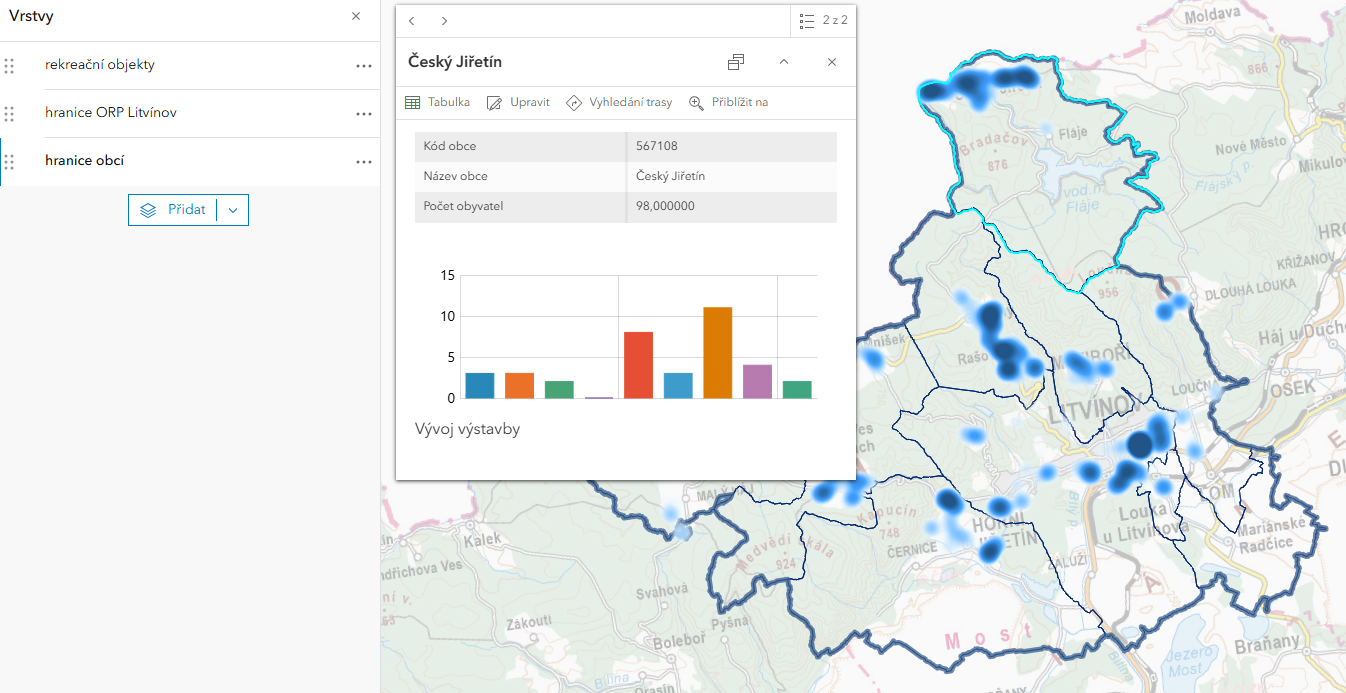
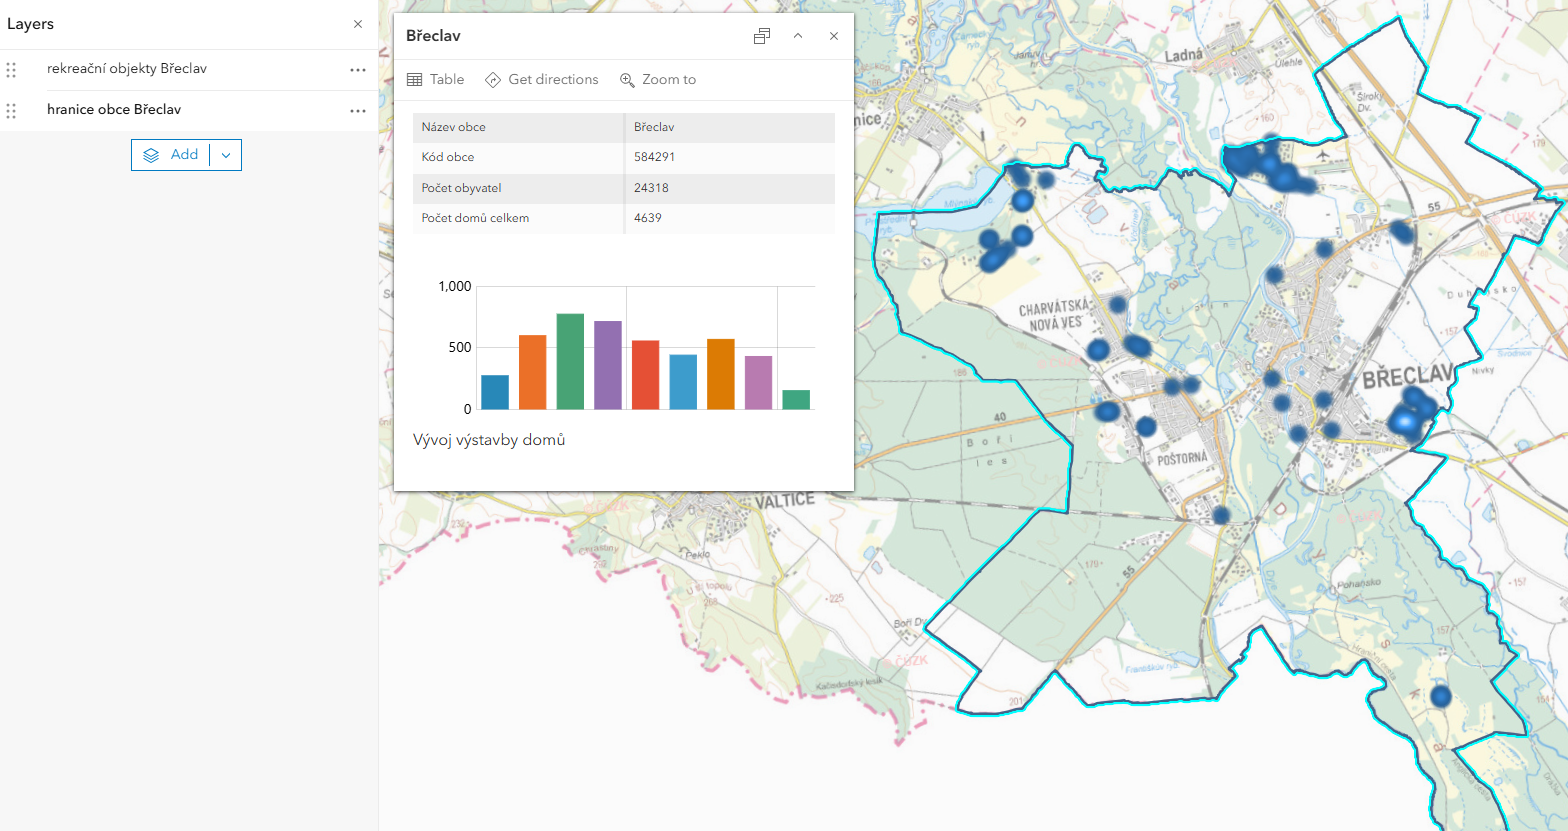
web maps edit

diff --git a/docs/cviceni/cviceni05.md b/docs/cviceni/cviceni05.md
@@ -49,9 +49,9 @@ ZABAGED představuje důležitý zdroj dat pro analýzu území, tvorbu map a 3D
 
 V prostředí [__ArcGIS Online__](https://www.arcgis.com/){.color_def .underlined_dotted .external_link_icon target="_blank"} vytvořte __2 webové mapy__ pro zadané území (viz individuální zadání níže): 
 
-[**Mapa I**](#mapa-i) bude obsahovat __budovy (stavební objekty) v zadané obci__ __barevně rozlišené dle připojení na kanalizaci a plyn__.
+[**Mapa I**](#mapa-i) bude zobrazovat __budovy (stavební objekty) v zadané obci__ __barevně rozlišené dle připojení na kanalizaci a plyn__.
 
-[**Mapa II**](#mapa-ii) bude zobrazovat __rekreační potenciál v zadané [ORP]("obce s rozšířenou působností (ORP) jsou v Česku mezičlánkem přenesené působnosti samosprávy mezi krajskými úřady a ostatními obecními úřady") pomocí metody intenzity jevu (heat map)__.
+[**Mapa II**](#mapa-ii) bude zobrazovat __rekreační potenciál v zadané obci pomocí metody intenzity jevu (heat map)__. Ve webové mapě bude nakonfigurováno vyskakovací okno s grafem, který bude zobrazovat vývoj výstavby domů v této obci.
 
 ??? task-fg-color "Individuální zadání"
     - také viz [Moodle](https://moodle-vyuka.cvut.cz/mod/page/view.php?id=363763){.color_def .underlined_dotted .external_link_icon target="_blank"}<br><br>
@@ -62,14 +62,14 @@ V prostředí [__ArcGIS Online__](https://www.arcgis.com/){.color_def .underline
 
 <div class="annotate" markdown>
 
-- Do prázdné mapy v ArcGIS Online __přidejte polygonovou vrstvu obcí__ [__:material-layers-triple: SGEA_obce_2025__]("Tato vrstva obsahuje polygony území všech obcí v ČR."){.bg .color_def}. __(1)__{title="ukázka polygonové vrstvy obcí"}
+- Do prázdné mapy v ArcGIS Online __přidejte polygonovou vrstvu obcí__ [__:material-layers-triple: SGEA_obce_2024__]("Tato vrstva obsahuje polygony území všech obcí v ČR."){.bg .color_def}. __(1)__{title="ukázka polygonové vrstvy obcí"}
 
 - S využitím funkce __:material-filter: filtru__ __omezte vrstvu obcí pouze na území zadané obce.__ Nastavte :material-filter: filtr dle atributu `Kód obce`. __(2)__{title="nastavení filtru dle kódu obce"}
 
 - Dále přidejte polygonovou vrstvu [__:material-layers-triple: StavebniObjekt__]("Tato vrstva obsahuje polygony všech stavebních objektů v ČR."){.bg .color_def} z mapové služby __:material-layers: RÚIAN__{.bg} z [__Geoportálu ČÚZK__](https://ags.cuzk.gov.cz/geoprohlizec/ "Produkty → RÚIAN"){.color_def .underlined_dotted .external_link_icon target="_blank"}. Vrstvě stavebních objektů vhodně nastavte viditelný rozsah, aby bylo možné stavební objekty zobrazit i v menším měřítku (postačí do úrovně měst). __(3)__{title="přidání vrstvy stavebních objektů"}__(13)__{title="nastavení viditelného rozsahu vrstvy"}
 
-- S využitím nástroje __prostorové analýzy__ [__:material-tools: Překrýt vrstvy__]("angl. Overlay Layers"){.bg .color_def} __vytvořte vrstvu stavebních objektů pouze na území zadané obce__.__(4)__{title="nastavení parametrů nástroje překrytí vrstev"}__(5)__{title="ukázka výstupu nástroje překrytí vrstev"}<br>
-    *(Před spuštěním nástroje nastavte mapové okno tak, aby byla __viditelná celá hranice zadané obce__. Následně nastavte parametr __"Nastavení prostředí"__ nastavte na __"Rozsah zobrazení"__ , čímž omezíte výpočet pouze na rozsah mapového okna a výrazně tak snížíte cenu výpočtu)* __(14)__{title="omezení výpočtu dle rozsahu mapového okna"}
+- S využitím nástroje __prostorové analýzy__ [__:material-tools: Overlay Layers__]("česky Překrýt vrstvy"){.bg .color_def} __vytvořte vrstvu stavebních objektů pouze na území zadané obce__.__(4)__{title="nastavení parametrů nástroje překrytí vrstev"}__(5)__{title="ukázka výstupu nástroje překrytí vrstev"}<br>
+    *(Před spuštěním nástroje nastavte mapové okno tak, aby byla __viditelná celá hranice zadané obce__. Následně nastavte parametr __"Environment settings"__ na __"Display extent"__ , čímž omezíte výpočet pouze na rozsah mapového okna a výrazně tak snížíte cenu výpočtu)* __(14)__{title="omezení výpočtu dle rozsahu mapového okna"}
 
 - Vhodným __nastavením :material-shape-outline: stylu__ nově vzniklé vrstvy __barevně odlište jednotlivé stavební objekty__ v zadané obci __dle atributu "Připojení na kanalizační síť"__:
     1. Číselné kódy nejprve seřaďte (vzestupně) a poté je přepište na slovní popisy dle následujícího klíče:    
@@ -109,7 +109,7 @@ __:material-gas-burner: Připojení na rozvod plynu__
 </div>
 
 - 
-    2. Jednotlivým kategoriím nastavte barevnou výplň dle následujícíh kartografických zásad:
+    2. Jednotlivým kategoriím nastavte barevnou výplň dle následujících kartografických zásad:
         - kategoriím typu `nedefinováno`, `nezjištěno`, `null`, `žádná hodnota` nastavte __šedou barvu__{style="color:grey;"}
         - ostatní __kategorie barevně rozlište dle stupně naplnění jevu__:
             - kategorii typu `Přípoj na kanalizační síť` odpovídajícím naplnění jevu nastavte __zelenou barvu__{style="color:green;"}
@@ -124,12 +124,12 @@ __:material-gas-burner: Připojení na rozvod plynu__
 <!-- NEFUNGUJE MI TA ZMENA PROJEKCE, U TETO VRSTVY TO TREBA FUNGUJE: geoappext.nrcan.gc.ca/arcgis/rest/services/BaseMaps/CBMT3978/MapServer -->
 
 - Proveďte finální úpravu webové mapy:
-    - vrstvy klasifikující stavební objekty dle připojení na plyn a kanalizaci seskupte do skupiny *"stavební objekty"* a této skupině __nastavte exkluzivní viditelnost__, aby byla při přepínání viditelná vždy pouze jedna vrstva stavebních objektů __(8)__{title="nastavení exkluzivní viditelnosti skupiny vrstev"}
-    - ve webové mapě __zachovejte pouze skupinu vrstev *"stavební objekty"* a vrstvu zobrazující hranice obce__ (ostatní vrstvy z mapy odstraňte)
+    - vrstvy klasifikující stavební objekty dle připojení na plyn a kanalizaci seskupte do skupiny **"stavební objekty"** a této skupině __nastavte exkluzivní viditelnost__, aby byla při přepínání viditelná vždy pouze jedna vrstva stavebních objektů __(8)__{title="nastavení exkluzivní viditelnosti skupiny vrstev"}
+    - ve webové mapě __zachovejte pouze skupinu vrstev "stavební objekty" a vrstvu zobrazující hranice obce__ (ostatní vrstvy z mapy odstraňte)
     - __všechny vrstvy vhodně pojmenujte__
     - u podkladové mapy nastavte vhodnou míru průhlednosti __(16)__{title="nastavení průhlednosti podkladové mapy"}
 
-- __Webovou mapu uložte__ s názvem **Prijmeni_Jmeno_SGEA2025_Mapa1** a __nastavte sdílení v rámci oganizace__. __(17)__{title="ukázka"}
+- __Webovou mapu uložte__ s názvem **Prijmeni_Jmeno_SGEA2026_Mapa1** a __nastavte sdílení v rámci oganizace__. __(17)__{title="ukázka"}
 
 <figure markdown>
 ![](../assets/cviceni04/Mapa1_result.png){width=700px}
@@ -153,8 +153,6 @@ __:material-gas-burner: Připojení na rozvod plynu__
 ---
 
 ## Mapa II
-Úkolem je vytvořit mapu, která bude zobrazovat __rekreační potenciál v zadané obci pomocí metody intenzity jevu (heat map)__. Ve webové mapě bude nakonfigurováno vyskakovací okno s grafem, který bude zobrazovat vývoj výstavby domů v této obci.
-
 
 <!--
 - ~~Obě vrstvy (stavební objekty i obvod zadané obce) __exportujte do formátu Shapefile__ a __stáhněte na disk počítače__.~~
@@ -179,9 +177,8 @@ __:material-gas-burner: Připojení na rozvod plynu__
 
 -->
 
-- Do prázdné mapy v ArcGIS Online __přidejte polygonovou vrstvu obcí__ [__:material-layers-triple: SGEA_obce_2025__]("Tato vrstva obsahuje polygony území všech obcí v ČR."){.bg .color_def}. __(1)__{title="ukázka polygonové vrstvy obcí"}
-
-- S využitím funkce __:material-filter: filtru__ __znovu omezte vrstvu obcí pouze na zadanou.__ Případně lze použít webovou mapu z minulého příkladu a přeuložit ji pod novým názvem a vrstvy upravit. __(19)__{title="nastavení filtru dle kódu obce"}
+- Předchozí mapu přeuložte pod novým názvem **Prijmeni_Jmeno_SGEA2026_Mapa2**. Ve webové mapě **ponechte pouze vrstvu "Hranice obce"**, skupinu vrstev "Stavební objekty" odstraňte.<br><br>
+    *(Případně si můžete založit novou prázdnou mapu, do které znovu přidáte __polygonovou vrstvu obcí__ [__:material-layers-triple: SGEA_obce_2024__]("Tato vrstva obsahuje polygony území všech obcí v ČR."){.bg .color_def}, kterou s využitím funkce __:material-filter: filtru__ __prostorově omezíte pouze na území zadané obce.__  )* __(19)__{title="nastavení filtru dle kódu obce"}
 
 <!--
 - S využitím nástroje __prostorové analýzy__ [__:material-tools: Sloučit hranice__]("angl. Dissolve Boundaries"){.bg .color_def} __sloučíme jednotlivé obce do plochy zadané ORP__.__(11)__{title="nastavení parametrů nástroje pro sloučení hranic"}<br>
@@ -191,10 +188,10 @@ __:material-gas-burner: Připojení na rozvod plynu__
 
 - Dále __přidejte bodovou vrstvu budov individuální a hromadné rekreace__ [__:material-layers-triple: Stav_objekty_rekr_BOD__]("tato vrstva obsahuje budovy, jež jsou typu "stavba pro rodinnou rekreaci" (`Způsob využití = 8`) nebo "stavba ubytovacího zařízení" (`Způsob využití = 11`)"){.bg .color_def}. __(18)__{title="ukázka bodové vrstvy rekreačních objektů"}
 
-- S využitím nástroje __prostorové analýzy__ [__:material-tools: Překrýt vrstvy__]("angl. Overlay Layers"){.bg .color_def} __vytvořte vrstvu rekreačních objektů pouze na území zadané ORP__.__(21)__{title="nastavení parametrů nástroje překrytí vrstev"}__(22)__{title="ukázka výstupu nástroje překrytí vrstev"}<br>
-    *(Před spuštěním nástroje nastavte parametr __"Nastavení prostředí"__ na __"Vrstva"__  a zvolte vrstvu zadané obce. Tímto omezíte výpočet pouze na rozsah své obce a výrazně tak snížíte cenu výpočtu)* __(12)__{title="omezení výpočtu dle rozsahu vrstvy"}
+- S využitím nástroje __prostorové analýzy__ [__:material-tools: Overlay Layers__]("česky Překrýt vrstvy"){.bg .color_def} __vytvořte vrstvu rekreačních objektů pouze na území zadané obce__.__(21)__{title="nastavení parametrů nástroje překrytí vrstev"}__(22)__{title="ukázka výstupu nástroje překrytí vrstev"}<br>
+    *(Před spuštěním nástroje nastavte mapové okno tak, aby byla __viditelná celá hranice zadané obce__. Následně nastavte parametr __"Environment settings"__ na __"Display extent"__ , čímž omezíte výpočet pouze na rozsah mapového okna a výrazně tak snížíte cenu výpočtu)* __(12)__{title="omezení výpočtu dle rozsahu mapového okna"}
 
-- Ve __:material-shape-outline: stylu__ nově vzniklé vrstvy rekreačních budov nastavte __symboliku na typ__ __Teplotní mapa__ a __zobrazte intenzitu výskytu rekreačních objektů__ v zadané obci. <br>
+- Ve __:material-shape-outline: stylu__ nově vzniklé vrstvy rekreačních budov nastavte __symboliku na typ__ __Heat Map__ a __zobrazte intenzitu výskytu rekreačních objektů__ v zadané obci. <br>
     *(Volitelně můžete nastavit "Oblast vlivu" jednotlivých bodů nebo přenastavit barevnou stupnici a úroveň průhlednosti.)*
 
 <figure markdown>
@@ -203,9 +200,10 @@ __:material-gas-burner: Připojení na rozvod plynu__
 <figcaption>tvorba mapy formou metody intenzity jevu (heat-map)</figcaption></figure>
 
 - Pro vrstvu s hranicemi obcí zapněte vyskakovací okna a nakonfigurujte jejich obsah:
-    - zobrazte pouze atributy (pole) `Název obce`, `Kód obce` a `Počet obyvatel`
+    - zobrazte pouze atributy (pole) `Název obce`, `Kód obce`, `Počet obyvatel` a `Počet domů celkem`
     - přidejte sloupcový (pruhový) graf, který bude vykreslovat vývoj výstavby domů v obci s využitím atributů 
-    `Výstavba domů před 1919`, `Výstavba domů 1920–1945`, `Výstavba domů 1946–1970`, ... , až po `Výstavba domů po 2016` (v tomto pořadí)
+    `Výstavba domů před 1919`, `Výstavba domů 1920–1945`, `Výstavba domů 1946–1970`, ... , až po `Výstavba domů po 2016` (v tomto pořadí) __(25)__{title="přidání grafu do vyskakovacího okna"}
+    - u vybraných polí vhodně nastavte počet desetinných míst __(24)__{title="omezení výpočtu dle rozsahu vrstvy"}
 
 
 - Jako podkladovou mapu přidejte [__Základní topografickou mapu od Zeměměřického úřadu v souřadnicovém systému S-JTSK__]("v prostředi AGOL odpovídá službě 'Základní topografické mapy ČR (S-JTSK)' od uživatele 'Zeměměřický Úřad'"){.color_def .underlined_dotted} nebo [__Ortofotomapu ČR (S-JTSK)__]("v prostředi AGOL odpovídá službě 'Ortofotomapa ČR (S-JTSK' od uživatele 'Zeměměřický Úřad'"){.color_def .underlined_dotted} __(15)__{title="přidání podkladové mapy"}
@@ -214,7 +212,7 @@ __:material-gas-burner: Připojení na rozvod plynu__
     - ve webové mapě __zachovejte pouze vrstvu rekreačních objektů v zadané obci a vrstvu zobrazující hranici obce__ (ostatní vrstvy z mapy odstraňte)
     - __všechny vrstvy vhodně pojmenujte__
     - možnost __zobrazit vyskakovací okna__ ponechte __jen u vrstvy obcí__, u zbývajících vrstev tuto možnost vypněte
-    - u podkladové mapy nastavte vhodnou míru průhlednosti __(16)__{title="nastavení průhlednosti podkladové mapy"}
+    - u podkladové mapy nastavte vhodnou míru průhlednosti __(16)__{title="nastavení parametrů vybraných atributů"}
 
 
 
@@ -228,7 +226,7 @@ __:material-gas-burner: Připojení na rozvod plynu__
 
 </div> <!-- pro anotace -->
 
-1.  ![](../assets/cviceni04/img01.png){ .no-filter width=700px} polygonová vrstva obcí "SGEA_obce_2025"
+1.  ![](../assets/cviceni04/img01.png){ .no-filter width=700px} polygonová vrstva obcí "SGEA_obce_2024"
 2.  ![](../assets/cviceni04/obce_vyber.png){ .no-filter width=700px} nastavení filtru dle kódu obce
 3.  ![](../assets/cviceni04/RUIAN_all.png){ .no-filter width=700px} vrstva "RÚIAN/StavebniObjekt"
 4.  ![](../assets/cviceni04/overlay.png){ .no-filter width=200px}<br> nastavení parametrů nástroje "Překrýt vrstvy"
@@ -239,19 +237,20 @@ __:material-gas-burner: Připojení na rozvod plynu__
 9.  __Příklad odevzdaného odkazu:__<br>https://ctuprague.maps.arcgis.com/apps/mapviewer/index.html?webmap=21df15ae2ca9458794a16a8fd9078b78
 10. ![](../assets/cviceni04/zjisteni_kodu_ORP.png){ .no-filter width=700px} zjištění kódu ORP
 11. ![](../assets/cviceni04/Mapa2_dissolve.png){ .no-filter width=700px} nastavení parametrů nástroje "Sloučit hranice"
-12. ![](../assets/cviceni04/overlay_rozsah_vrstva.png){ .no-filter width=700px} omezení výpočtu na rozsah vrstvy
+12. ![](../assets/cviceni04/overlay_rozsah.png){ .no-filter width=700px} omezení výpočtu dle rozsahu mapového okna
 13. ![](../assets/cviceni04/RUIAN_meritko.png){ .no-filter width=700px} nastavení viditelného rozsahu polygonové vrstvy stavebních objektů
 14. ![](../assets/cviceni04/overlay_rozsah.png){ .no-filter width=700px} omezení výpočtu na rozsah mapového okna
 15. ![](../assets/cviceni03/AGOL_ZTM.png){ .no-filter width=700px} přidání vrstvy jako podkladové mapy
 16. ![](../assets/cviceni04/basemap_transparency.png){ .no-filter width=700px} nastavení průhlednosti podkladové mapy
 17. ![](../assets/cviceni04/mapa_content.png){ .no-filter width=700px} správné pojmenování webové mapy a nastavení sdílení v rámci organizace
 18. ![](../assets/cviceni04/rekr_bod_ukazka.png){ .no-filter width=700px} bodová vrstva rekreačních objektů "Stav_objekty_rekr_BOD"
-19.  ![](../assets/cviceni04/Mapa2_filtr.png){ .no-filter width=700px} nastavení filtru dle názvu ORP
+19.  ![](../assets/cviceni04/obce_vyber.png){ .no-filter width=700px} nastavení filtru dle kódu obce
 20.  ![](../assets/cviceni04/dissolve_result.png){ .no-filter width=700px} výstup nástroje "Sloučit hranice" (hranice ORP)
 21.  ![](../assets/cviceni04/overlay_Mapa2.png){ .no-filter width=700px} nastavení parametrů nástroje "Překrýt vrstvy"
 22.  ![](../assets/cviceni04/overlay_result_Mapa2.png){ .no-filter width=700px} výstup nástroje "Překrýt vrstvy" (rekreační objekty jsou pouze uvnitř hranice ORP)
 23. ![](../assets/cviceni04/mapa2_content.png){ .no-filter width=700px} správné pojmenování webové mapy a nastavení sdílení v rámci organizace
-
+24. ![](../assets/cviceni04/fields_setting.png){ .no-filter width=700px} nastavení parametrů vybraných atributů
+25. ![](../assets/cviceni04/popup_chart.png){ .no-filter width=700px} přidání grafu do vyskakovacího okna
 
 
 <hr class="level-1">
